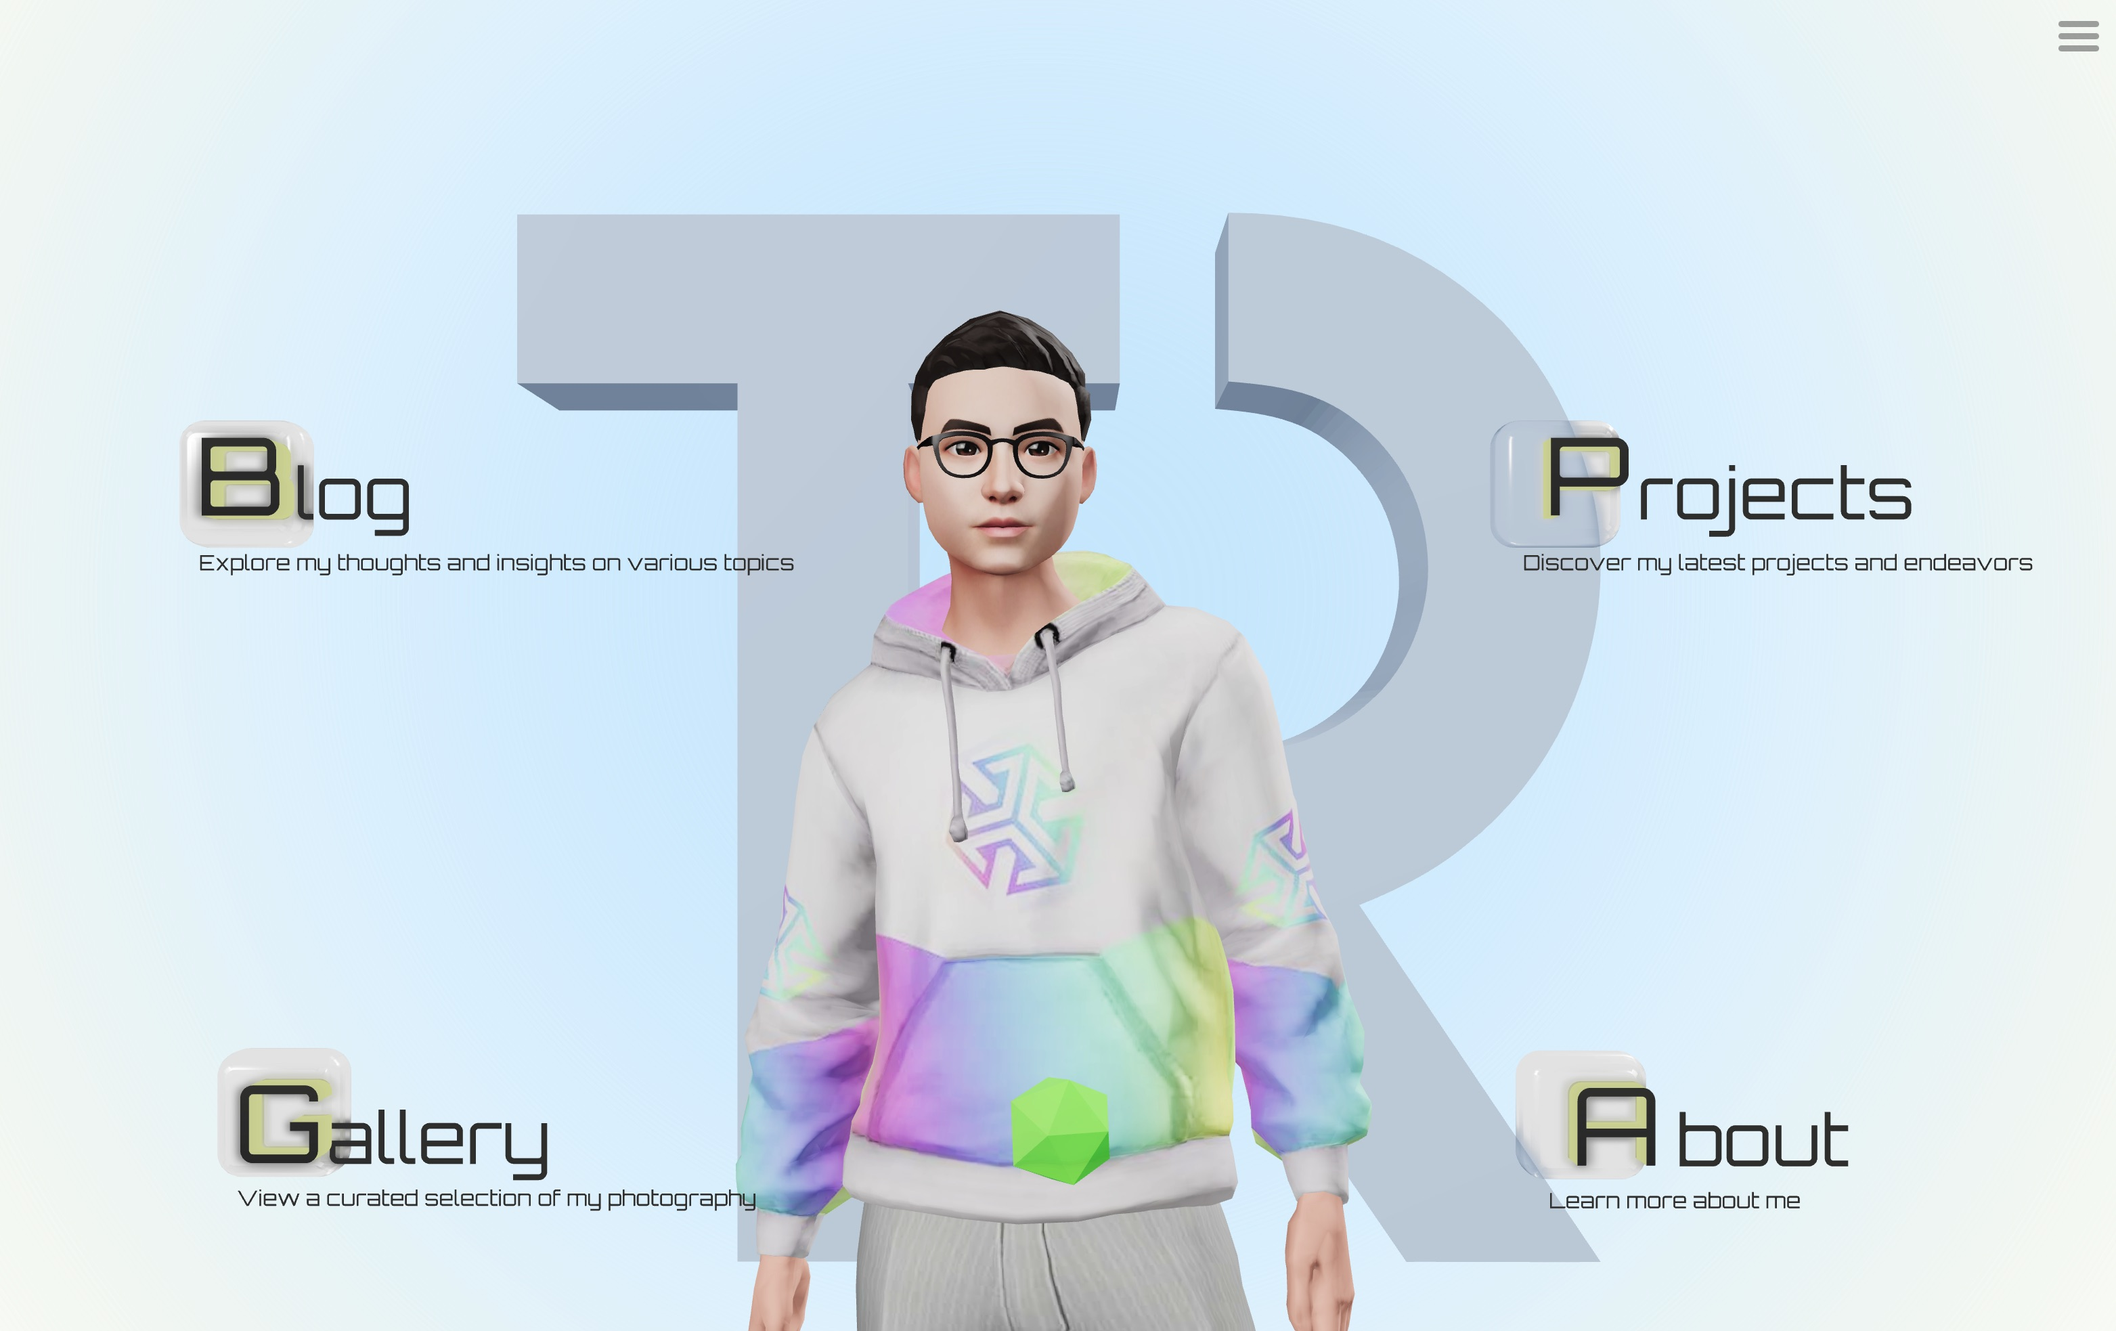
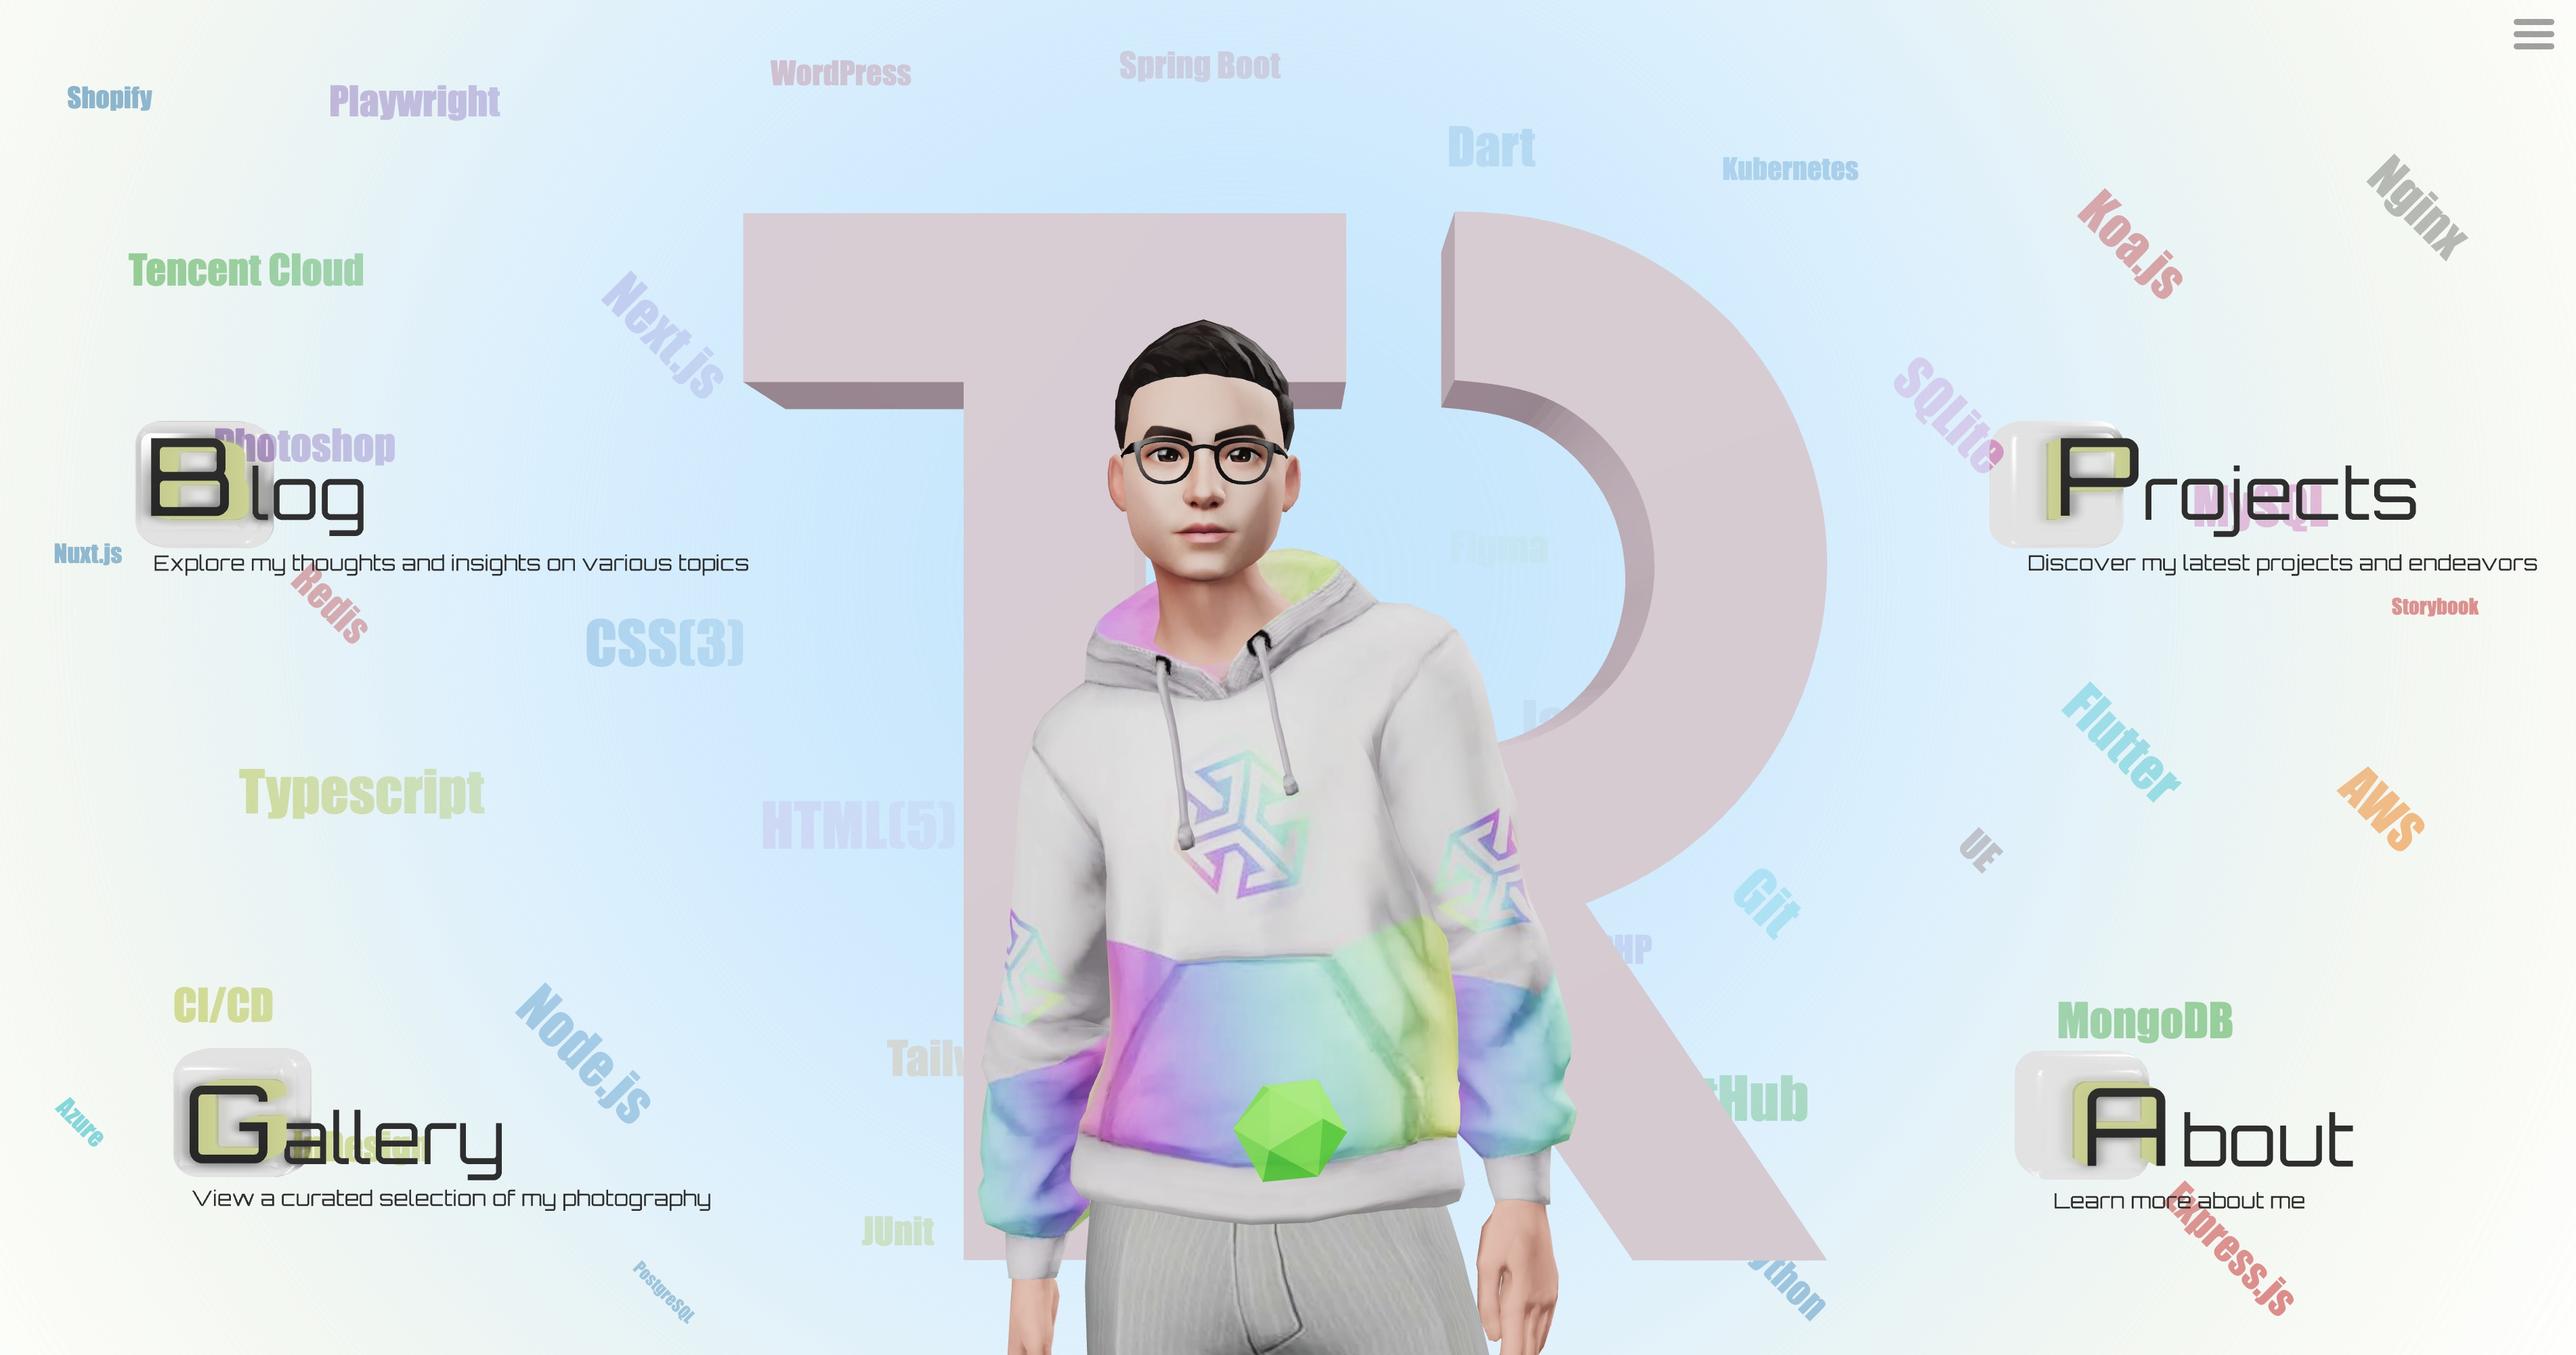
feat(home): add skills background

diff --git a/pages/index/skills-word-cloud.tsx b/pages/index/skills-word-cloud.tsx
@@ -1,21 +1,30 @@
 import { useEffect, useRef, useState } from 'react'
 import * as d3 from 'd3'
 import cloud from 'd3-cloud'
+import skillsData from '../about/skills.data'
 
 interface Word {
   text: string
   size: number
 }
 
-const WordCloud = ({ words }: { words: Word[] }) => {
+const WordCloud = () => {
   const svgRef = useRef<any>()
   const [dimensions, setDimensions] = useState({ width: 0, height: 0 })
+
+  const words: Word[] = []
+
+  for (const CategoryValue of Object.values(skillsData)) {
+    for (const [key, value] of Object.entries(CategoryValue)) {
+      words.push({ text: key, size: value })
+    }
+  }
 
   useEffect(() => {
     const handleResize = () =>
       setDimensions({
         width: window.innerWidth,
-        height: window.innerHeight / 3,
+        height: window.innerHeight,
       })
 
     window.addEventListener('resize', handleResize)
@@ -32,7 +41,7 @@ const WordCloud = ({ words }: { words: Word[] }) => {
     const layout = cloud()
       .size([dimensions.width, dimensions.height])
       .words(words.map((d) => ({ text: d.text, size: d.size })))
-      .padding(5)
+      .padding(20)
       .rotate(() => ~~(Math.random() * 2) * 45)
       .font('Impact')
       .fontSize((d: Word) => d.size)
@@ -53,7 +62,11 @@ const WordCloud = ({ words }: { words: Word[] }) => {
         .data(words)
         .enter()
         .append('text')
-        .style('font-size', (d: Word) => `${d.size}px`)
+        .style(
+          'font-size',
+          (d: Word) => `${(d.size * window.innerWidth) / 4000}px`
+        )
+        .style('opacity', 0.5)
         .style('font-family', 'Impact')
         .style(
           'fill',

diff --git a/pages/index/index.page.tsx b/pages/index/index.page.tsx
@@ -7,6 +7,7 @@ import Loading from './loading'
 import Mask from '@/components/mask'
 import { ThreeEvent } from '@react-three/fiber'
 import { useRouter } from 'next/router'
+import SkillsWordCloud from './skills-word-cloud'
 
 const PageHome: PageWithLayout = () => {
   const [icosahedronPosition, setIcosahedronPosition] =
@@ -49,6 +50,7 @@ const PageHome: PageWithLayout = () => {
         position={menuClickPosition}
         fullScreen={maskFullScreen}
       />
+      <SkillsWordCloud />
     </>
   )
 }

diff --git a/pages/about/index.page.tsx b/pages/about/index.page.tsx
@@ -9,7 +9,6 @@ import 'atropos/scss'
 import Image from 'next/image'
 import { PageWithLayout } from '../_app.page'
 import Portfolio from '../../public/portfolio.jpg'
-import Skills from './skills'
 import Timeline from './timeline'
 import SocialMedia from './social-media'
 
@@ -122,8 +121,6 @@ const PageAbout: PageWithLayout = () => {
           />
         </p>
       </div>
-
-      <Skills className="mt-12 sm:mt-16" />
 
       <Timeline className="mt-12 sm:mt-20 h-[520px]" />
 
